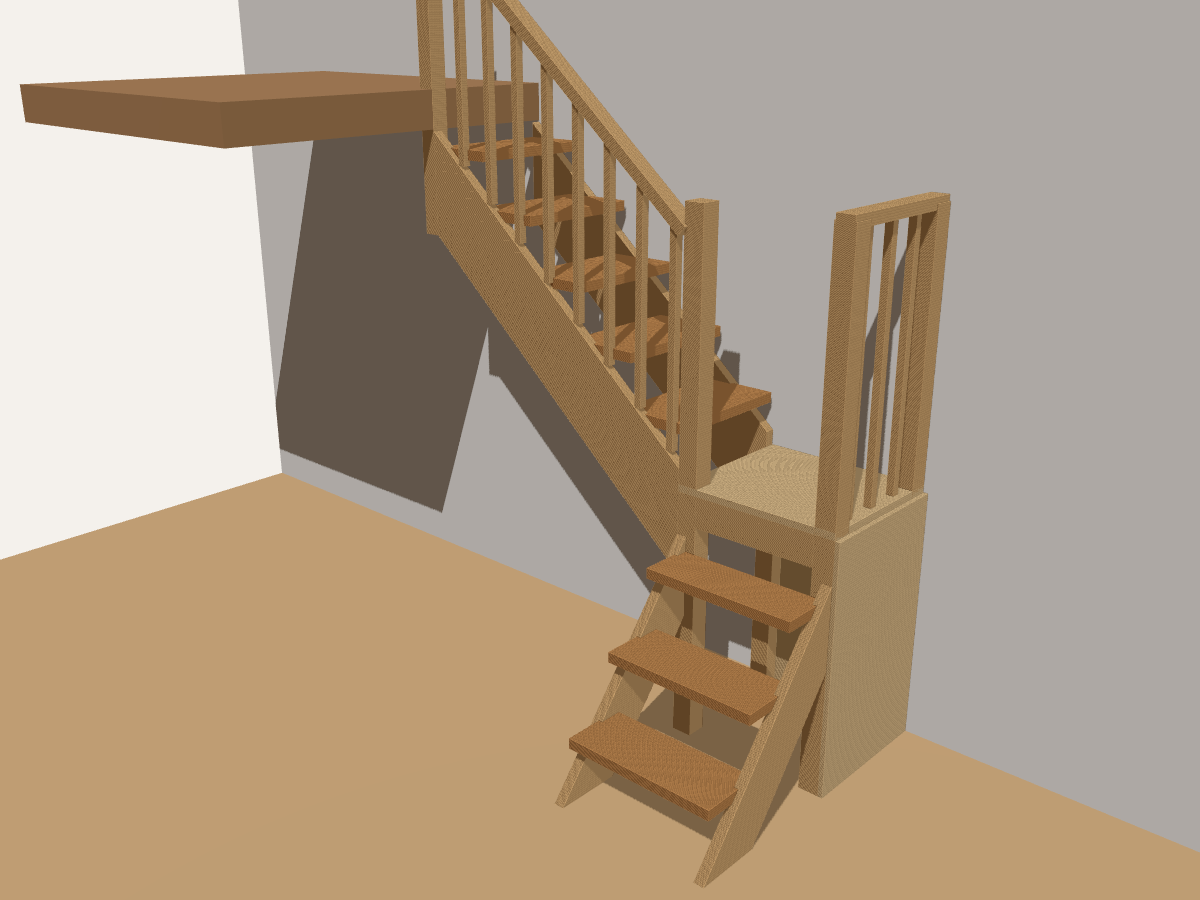
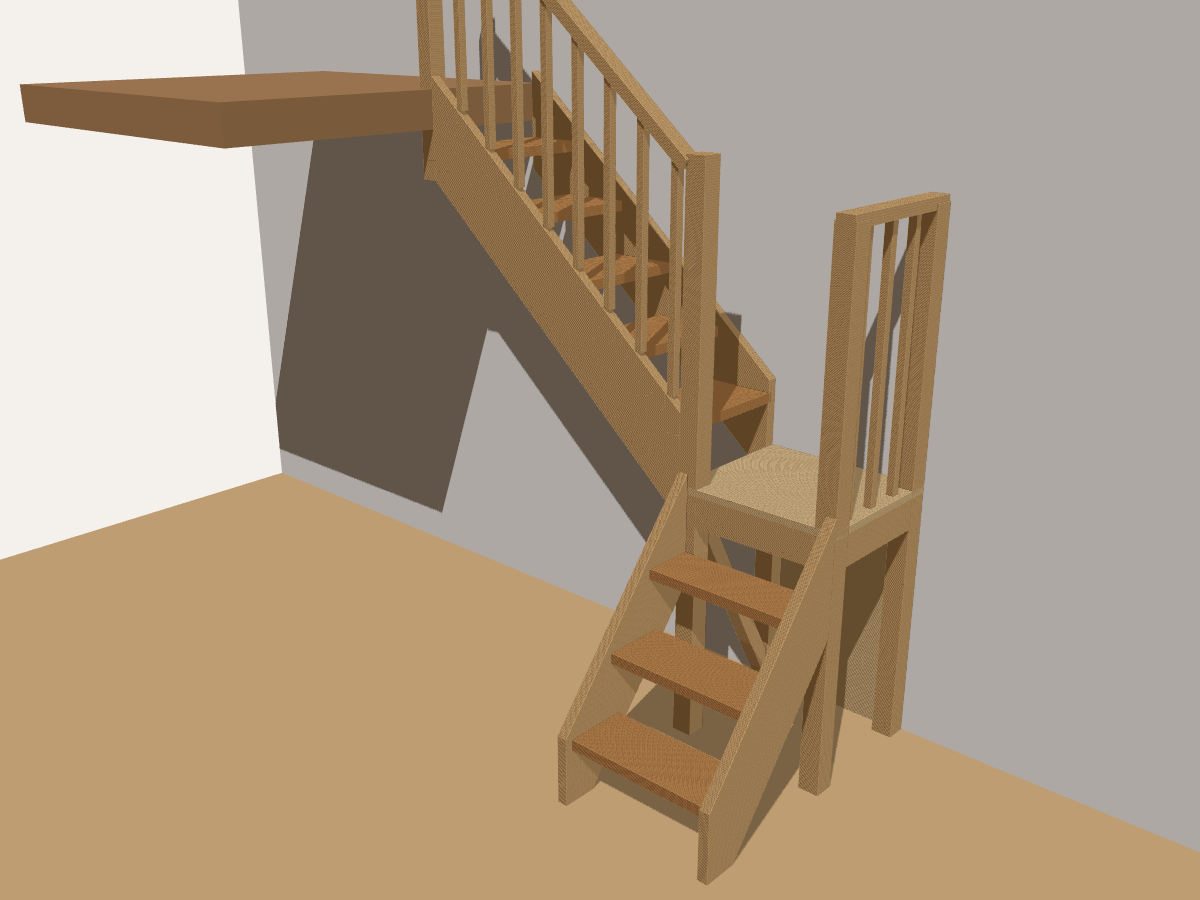
privat-haushalt: Treppenmodell, Tritte zwischen den Wangen, Podestseite offen
Claude-Session: https://claude.ai/code/session_011MSKcWF1eNiWCkVJncpmSo

diff --git a/areas/privat-haushalt/treppe/treppe_cq.py b/areas/privat-haushalt/treppe/treppe_cq.py
@@ -25,10 +25,12 @@ def bar(name,p0,p1,w,h,c="holz"):
     s=s.rotate((0,0,0),(0,1,0),-ang).rotate((0,0,0),(0,0,1),yaw).translate(p0)
     add(s,name,C[c])
 # --- obere Treppe ---
-LU=lambda x: GAL-HU-(HU/GU)*x          # Trittkantenlinie oben
-top=60; bot=WH*1.35-top
+import math
+LU=lambda x: GAL-(HU/GU)*x              # Linie durch die Trittvorderkanten oben
+top=50                                   # Wange steht 5 cm ueber die Trittkante
+botU=WH/math.cos(math.atan(HU/GU))-top   # 300er Brett, senkrecht gemessen
 for i,(y0,y1) in enumerate([(0,W),(BU-W,BU)]):
-    poly_xz(f"Wange_oben_{'wand' if i==0 else 'raum'}",[(0,LU(0)+top),(XP,LU(XP)+top),(XP,LU(XP)-bot),(0,LU(0)-bot)],y0,y1)
+    poly_xz(f"Wange_oben_{'wand' if i==0 else 'raum'}",[(0,LU(0)+top),(XP,LU(XP)+top),(XP,LU(XP)-botU),(0,LU(0)-botU)],y0,y1)
 for k in range(1,NU+1):
     z=GAL-k*HU; x0=(k-1)*GU-(UEB if k>1 else 0)
     box(f"Tritt_oben_{k}",x0,k*GU,W-NUT,BU-W+NUT,z-T,z,"tritt")
@@ -36,26 +38,27 @@ for k in range(1,NU+1):
 box("Podest_Belag",XP,XP+PL,0,PD,PH-27,PH,"platte")
 zt=PH-27
 for n,(x,y) in {"wand_links":(XP,0),"wand_rechts":(XP+PL-POST,0),"vorne_links":(XP,PD-POST),"vorne_rechts":(XP+PL-POST,PD-POST)}.items():
-    hgt = PH+1000 if n in ("vorne_links","vorne_rechts","wand_rechts") else zt
+    hgt = {"vorne_links":GAL-NU*HU+900+HR[1]/2,"vorne_rechts":PH+1000,"wand_rechts":PH+1000}.get(n,zt)  # vorne links nimmt den oberen Handlauf auf
     box(f"Podest_Pfosten_{n}",x,x+POST,y,y+POST,0,hgt)
 for n,(a,b,c,d) in {"wand":(XP+POST,XP+PL-POST,0,60),"vorne":(XP+POST,XP+PL-POST,PD-60,PD),
                     "links":(XP,XP+60,POST,PD-POST),"rechts":(XP+PL-60,XP+PL,POST,PD-POST)}.items():
     box(f"Podest_Rahmen_{n}",a,b,c,d,zt-120,zt)
 box("Podest_Platte_wand",XP+POST,XP+PL-POST,0,19,0,zt-120,"platte")
-box("Podest_Platte_rechts",XP+PL,XP+PL+19,0,PD,0,zt,"platte")
+# Seite rechts bleibt offen. Aussteifung quer zur Wand: Strebe auf der linken Seite (unter der oberen Treppe)
+bar("Podest_Strebe_links",(XP+POST/2,POST,100),(XP+POST/2,PD-POST,zt-120),60,60)
 # --- untere Treppe (nach vorne in den Raum) ---
-LL=lambda y: PH-HL-(HL/GL)*(y-PD)
-ytop=PD+GL*(LL(PD)+top)/(HL)*1.0
+LL=lambda y: PH-(HL/GL)*(y-PD)          # Linie durch die Trittvorderkanten unten
+botL=WH/math.cos(math.atan(HL/GL))-top
+YEND=PD+NL*GL+30                         # Wange endet 3 cm vor der letzten Trittkante, senkrecht geschnitten
 def lower_pts():
-    y_top_floor=PD+(LL(PD)+top)*GL/HL; y_bot_floor=PD+(LL(PD)-bot*0.75)*GL/HL
-    return [(PD,LL(PD)+top),(y_top_floor,0),(y_bot_floor,0),(PD,LL(PD)-bot*0.75)]
+    return [(PD,LL(PD)+top),(YEND,LL(YEND)+top),(YEND,0),(PD+(LL(PD)+top-botL)*GL/HL,0),(PD,LL(PD)+top-botL)]
 for i,(x0,x1) in enumerate([(XP,XP+W),(XP+BL-W,XP+BL)]):
     poly_yz(f"Wange_unten_{'links' if i==0 else 'rechts'}",lower_pts(),x0,x1)
 for j in range(1,NL+1):
     z=PH-j*HL; y0=PD+(j-1)*GL-(UEB if j>1 else 0)
     box(f"Tritt_unten_{j}",XP+W-NUT,XP+BL-W+NUT,y0,PD+j*GL,z-T,z,"tritt")
 # --- Gelaender ---
-box("Gel_Pfosten_oben",-RP,0,BU-RP,BU,LU(0)-bot,LU(0)+900+HR[1]/2)
+box("Gel_Pfosten_oben",-RP,0,BU-RP,BU,LU(0)-botU,LU(0)+900+HR[1]/2)
 hr0=(-RP/2,BU-20,LU(0)+900); hr1=(XP+POST/2,BU-20,LU(XP)+900)
 bar("Gel_Handlauf_oben",hr0,(XP,BU-20,LU(XP)+900),HR[1],HR[0])
 n=int(XP/STA)
